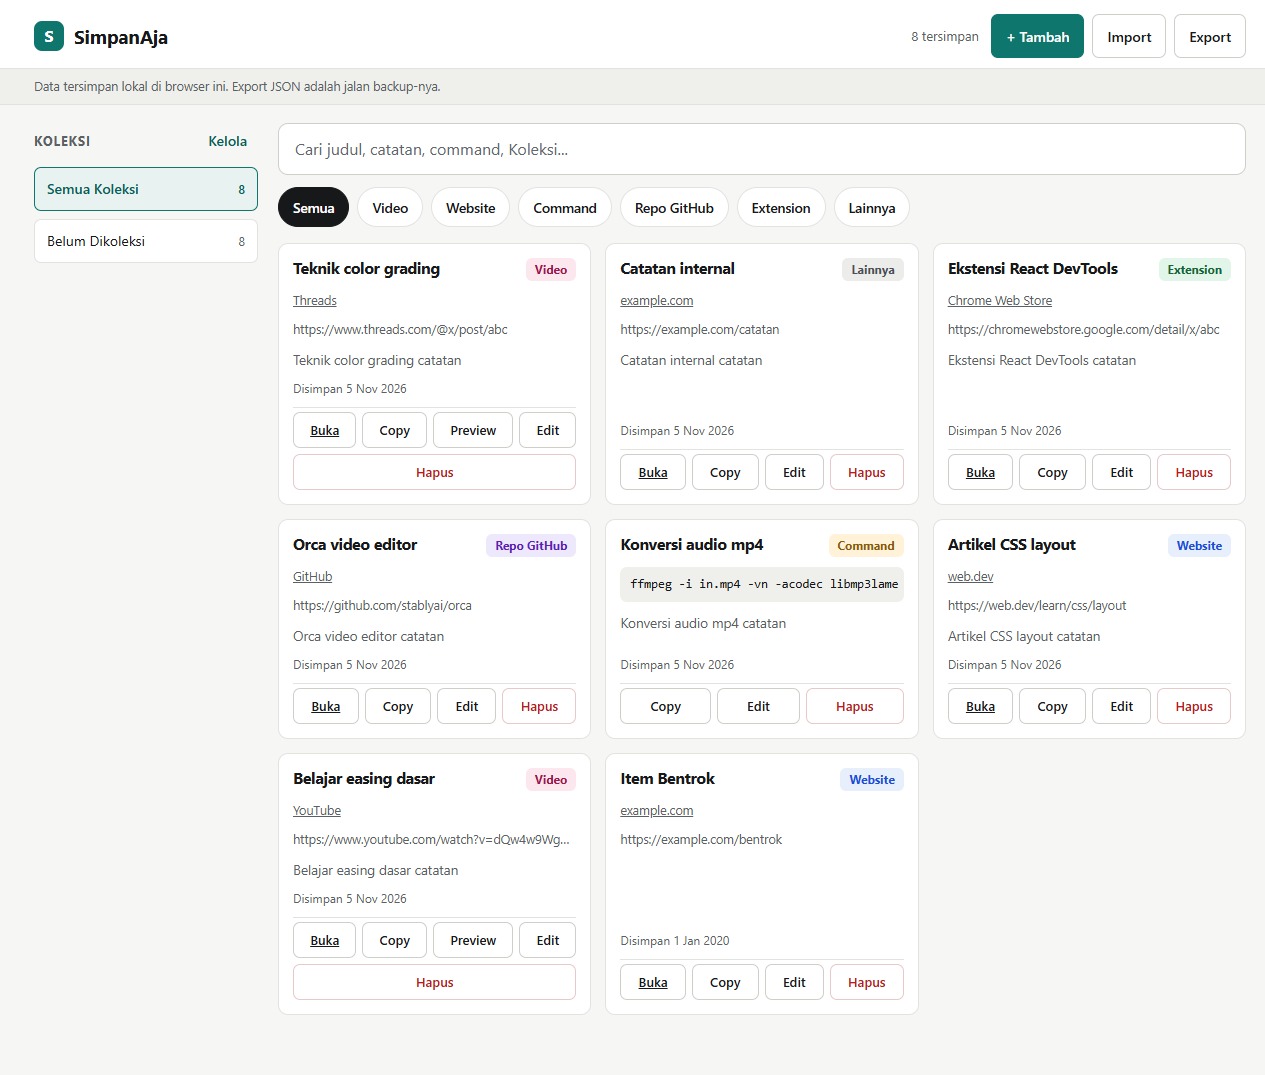
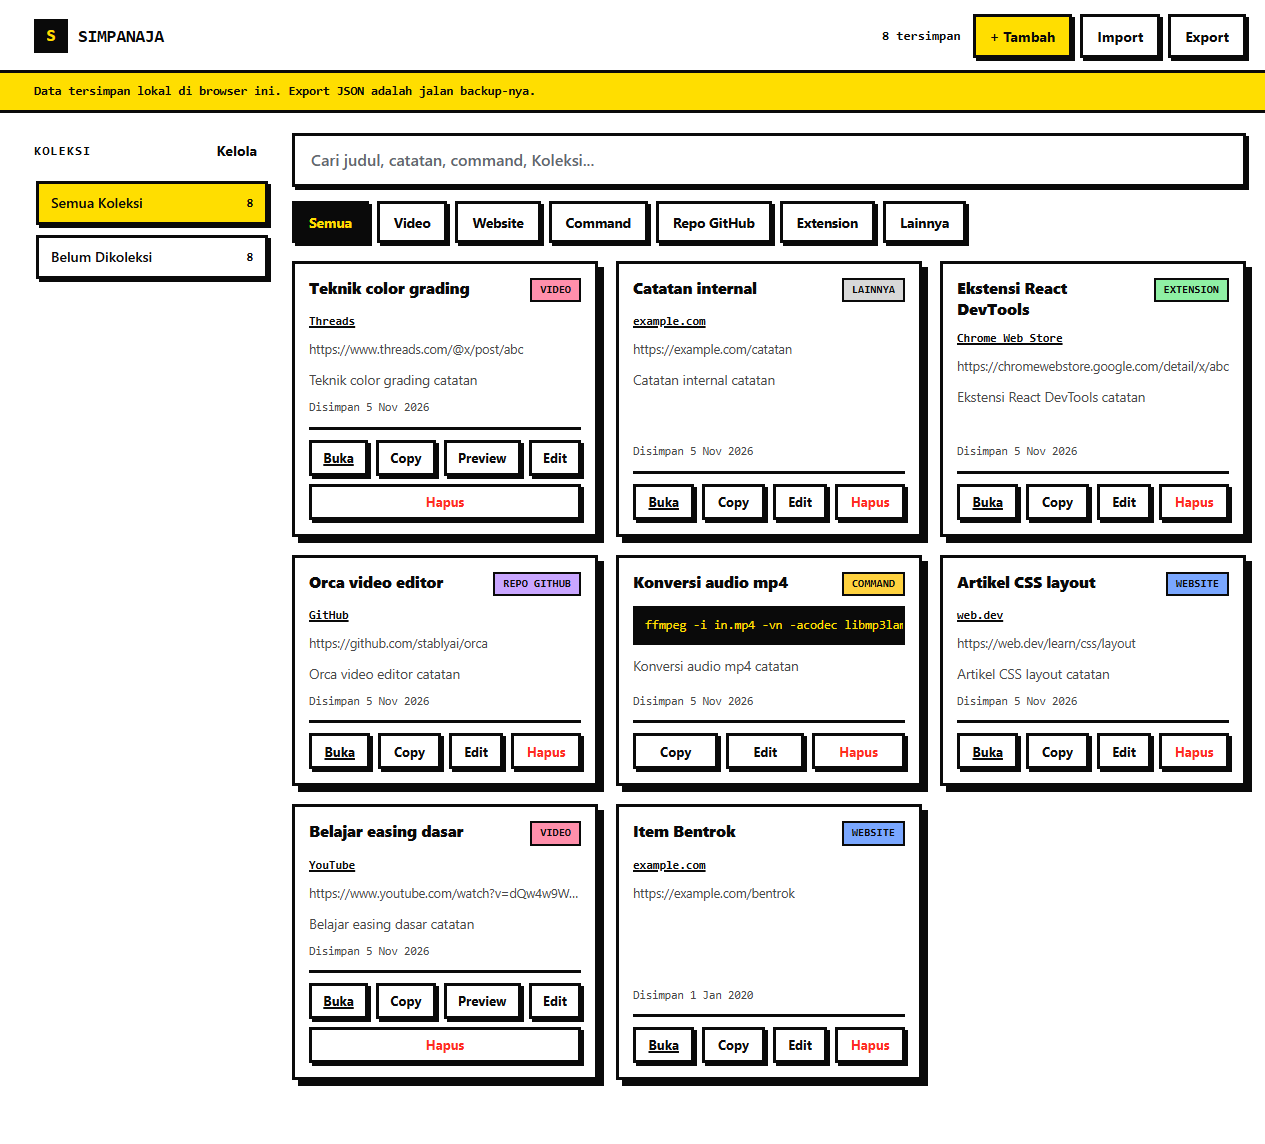
style: neubrutalism (hard borders, offset shadows, yellow accent)

Changed region(s): [[0.0, 0.0, 1.0, 0.9516]]

diff --git a/app/styles.css b/app/styles.css
@@ -1,30 +1,34 @@
-/* SimpanAja — "clean utility" for a personal Operate-mode tool.
-   Direction: dial ENERGY 1 / RHYTHM 1 / MOTION 1.
-   Identity motif: the 6 type badges are the only colour system, they are a real
-   taxonomy the user scans by, so colour earns its place there and nowhere else.
-   Typeface: system stacks only. Reason: spec forbids app network calls, so no
-   webfont may be fetched; native UI face keeps the tool fast and neutral. */
+/* SimpanAja — neubrutalism.
+   Direction: dial ENERGY 3 / RHYTHM 2 / MOTION 1. Hard borders, zero radius,
+   offset solid shadows, one loud yellow accent over ink black.
+   Identity motif: the 6 type badges stay the only colour system besides the
+   accent, they are a real taxonomy the user scans by.
+   Typeface: system stacks only — spec forbids app network calls, so no webfont.
+   Heading/utility face is the monospace stack; body stays sans for readability. */
 
 :root {
-  --bg: #f6f6f4;
+  --bg: #ffffff;
   --surface: #ffffff;
-  --surface-2: #efefec;
-  --ink: #17181a;
-  --muted: #5b5f66;
-  --line: #e2e2df;
-  --line-strong: #cfcfca;
-  --accent: #0f766e;
-  --accent-dark: #0b5d57;
-  --radius: 10px;
-  --radius-sm: 7px;
-  --shadow: 0 1px 2px rgba(20, 22, 24, .06), 0 6px 18px rgba(20, 22, 24, .06);
+  --surface-2: #f0f0f0;
+  --ink: #0a0a0a;
+  --muted: #4a4a4a;
+  --line: #0a0a0a;
+  --line-strong: #0a0a0a;
+  --accent: #ffde00;
+  --accent-dark: #0a0a0a;
+  --danger: #ff2d20;
+  --radius: 0px;
+  --radius-sm: 0px;
+  --bw: 3px;
+  --shadow: 6px 6px 0 var(--ink);
+  --shadow-sm: 3px 3px 0 var(--ink);
 
-  --t-video-bg: #fde7ef; --t-video-ink: #9d174d;
-  --t-website-bg: #e7eefc; --t-website-ink: #1d4ed8;
-  --t-command-bg: #fff2d9; --t-command-ink: #8a5a08;
-  --t-repo-bg: #ede8fb; --t-repo-ink: #5b21b6;
-  --t-extension-bg: #e2f5e9; --t-extension-ink: #166534;
-  --t-other-bg: #ececeb; --t-other-ink: #4b4f55;
+  --t-video-bg: #ff8fab; --t-video-ink: #0a0a0a;
+  --t-website-bg: #7aa7ff; --t-website-ink: #0a0a0a;
+  --t-command-bg: #ffd23f; --t-command-ink: #0a0a0a;
+  --t-repo-bg: #c9a6ff; --t-repo-ink: #0a0a0a;
+  --t-extension-bg: #8ff0a4; --t-extension-ink: #0a0a0a;
+  --t-other-bg: #d8d8d8; --t-other-ink: #0a0a0a;
 
   --sans: system-ui, -apple-system, "Segoe UI", Roboto, "Helvetica Neue", Arial, sans-serif;
   --mono: ui-monospace, SFMono-Regular, Menlo, Consolas, "Liberation Mono", monospace;
@@ -44,17 +48,15 @@ body {
   -webkit-text-size-adjust: 100%;
 }
 
-/* R-39: pointer affordance once, in the base layer */
 a[href], button, select, input[type="file"] { cursor: pointer; }
 button:disabled, select:disabled { cursor: not-allowed; }
 
-a { color: var(--accent-dark); }
+a { color: var(--ink); text-decoration: underline; text-decoration-thickness: 2px; }
 
-h1, h2, h3 { margin: 0; font-weight: 650; letter-spacing: -.01em; }
+h1, h2, h3 { margin: 0; font-family: var(--mono); font-weight: 800; letter-spacing: -.02em; text-transform: uppercase; }
 
-:focus-visible { outline: 2px solid var(--accent); outline-offset: 2px; border-radius: 4px; }
+:focus-visible { outline: var(--bw) solid var(--ink); outline-offset: 2px; border-radius: 0; }
 
-/* R-32: focus ring kept; R-03: touch targets >= 44px */
 .visually-hidden {
   position: absolute; width: 1px; height: 1px; padding: 0; margin: -1px;
   overflow: hidden; clip: rect(0 0 0 0); white-space: nowrap; border: 0;
@@ -64,24 +66,25 @@ h1, h2, h3 { margin: 0; font-weight: 650; letter-spacing: -.01em; }
 .topbar {
   display: flex; align-items: center; justify-content: space-between;
   gap: 12px; flex-wrap: wrap;
-  padding: 14px clamp(14px, 4vw, 34px) 10px;
+  padding: 14px clamp(14px, 4vw, 34px) 12px;
   background: var(--surface);
-  border-bottom: 1px solid var(--line);
+  border-bottom: var(--bw) solid var(--ink);
 }
 .brand { display: flex; align-items: center; gap: 10px; }
 .brand-mark {
-  width: 30px; height: 30px; display: grid; place-items: center;
-  background: var(--accent); color: #fff; border-radius: 8px;
-  font-weight: 700; font-size: 16px;
+  width: 34px; height: 34px; display: grid; place-items: center;
+  background: var(--ink); color: var(--accent); border: var(--bw) solid var(--ink);
+  font-family: var(--mono); font-weight: 800; font-size: 17px;
 }
-.topbar h1 { font-size: 19px; }
+.topbar h1 { font-size: 18px; }
 .topbar-actions { display: flex; align-items: center; gap: 8px; flex-wrap: wrap; }
-.total { color: var(--muted); font-size: 13px; margin-right: 4px; }
+.total { font-family: var(--mono); color: var(--ink); font-size: 13px; font-weight: 700; margin-right: 4px; }
 
 .local-note {
-  margin: 0; padding: 8px clamp(14px, 4vw, 34px);
-  background: var(--surface-2); color: var(--muted);
-  font-size: 12.5px; border-bottom: 1px solid var(--line);
+  margin: 0; padding: 9px clamp(14px, 4vw, 34px);
+  background: var(--accent); color: var(--ink);
+  font-family: var(--mono); font-size: 12.5px; font-weight: 600;
+  border-bottom: var(--bw) solid var(--ink);
 }
 
 /* ---------- buttons ---------- */
@@ -89,93 +92,97 @@ h1, h2, h3 { margin: 0; font-weight: 650; letter-spacing: -.01em; }
   min-height: 44px; padding: 0 14px;
   display: inline-flex; align-items: center; justify-content: center; gap: 6px;
   background: var(--surface); color: var(--ink);
-  border: 1px solid var(--line-strong); border-radius: var(--radius-sm);
-  font: inherit; font-size: 14px; font-weight: 550;
-  transition: background .12s, border-color .12s;
+  border: var(--bw) solid var(--ink); border-radius: 0;
+  box-shadow: var(--shadow-sm);
+  font: inherit; font-size: 14px; font-weight: 700;
+  transition: transform .08s, box-shadow .08s;
 }
 .btn:hover { background: var(--surface-2); }
-.btn:active { background: #e6e6e3; }
-.btn-primary { background: var(--accent); color: #fff; border-color: var(--accent); }
-.btn-primary:hover { background: var(--accent-dark); }
-.btn-quiet { border-color: transparent; background: transparent; min-height: 36px; padding: 0 10px; color: var(--accent-dark); }
+.btn:active { transform: translate(3px, 3px); box-shadow: 0 0 0 var(--ink); }
+.btn-primary { background: var(--accent); color: var(--ink); }
+.btn-primary:hover { background: #ffd000; }
+.btn-quiet { border-color: transparent; background: transparent; box-shadow: none; min-height: 36px; padding: 0 10px; }
 .btn-quiet:hover { background: var(--surface-2); }
-.btn-danger { color: #b91c1c; border-color: #e7c9c9; }
-.btn-danger:hover { background: #fbeaea; }
+.btn-danger { background: var(--surface); color: var(--danger); }
+.btn-danger:hover { background: var(--danger); color: #fff; }
 .btn-small { min-height: 36px; font-size: 13px; padding: 0 10px; }
 
 /* ---------- layout ---------- */
 .layout {
-  display: grid; gap: 20px;
-  padding: 18px clamp(14px, 4vw, 34px) 60px;
+  display: grid; gap: 22px;
+  padding: 20px clamp(14px, 4vw, 34px) 64px;
   align-items: start;
 }
 @media (min-width: 1024px) {
-  .layout { grid-template-columns: 224px 1fr; }
+  .layout { grid-template-columns: 236px 1fr; }
 }
 
-.sidebar {
-  min-width: 0;
-}
-.sidebar-head { display: flex; align-items: center; justify-content: space-between; margin-bottom: 8px; }
-.sidebar-head h2 { font-size: 13px; text-transform: uppercase; letter-spacing: .06em; color: var(--muted); }
+.sidebar { min-width: 0; }
+.sidebar-head { display: flex; align-items: center; justify-content: space-between; margin-bottom: 10px; gap: 8px; }
+.sidebar-head h2 { font-size: 13px; letter-spacing: .08em; color: var(--ink); }
 
-.collection-list { display: flex; gap: 8px; overflow-x: auto; padding-bottom: 4px; }
+.collection-list { display: flex; gap: 10px; overflow-x: auto; padding: 2px 2px 6px; }
 @media (min-width: 1024px) {
   .collection-list { flex-direction: column; overflow: visible; }
 }
 .collection-item {
   display: flex; align-items: center; justify-content: space-between; gap: 10px;
   min-height: 44px; padding: 0 12px; flex: 0 0 auto;
-  background: var(--surface); border: 1px solid var(--line);
-  border-radius: var(--radius-sm); color: var(--ink);
-  font: inherit; font-size: 14px; text-align: left; white-space: nowrap;
+  background: var(--surface); border: var(--bw) solid var(--ink); border-radius: 0;
+  box-shadow: var(--shadow-sm); color: var(--ink);
+  font: inherit; font-size: 14px; font-weight: 600; text-align: left; white-space: nowrap;
 }
 @media (min-width: 1024px) { .collection-item { width: 100%; white-space: normal; } }
-.collection-item:hover { border-color: var(--line-strong); }
-.collection-item[aria-current="true"] { border-color: var(--accent); background: #e8f3f1; color: var(--accent-dark); font-weight: 600; }
-.collection-item .count { color: var(--muted); font-size: 12px; }
-.collection-item[aria-current="true"] .count { color: var(--accent-dark); }
+.collection-item:hover { background: var(--surface-2); }
+.collection-item[aria-current="true"] { background: var(--accent); }
+.collection-item .count { font-family: var(--mono); color: var(--ink); font-size: 12px; font-weight: 700; }
 
 .content { min-width: 0; }
 
 /* ---------- search + chips ---------- */
-.search-wrap { margin-bottom: 12px; }
+.search-wrap { margin-bottom: 14px; }
 .search {
-  width: 100%; min-height: 52px; padding: 0 16px;
-  font: inherit; font-size: 16px;
+  width: 100%; min-height: 54px; padding: 0 16px;
+  font: inherit; font-size: 16px; font-weight: 600;
   background: var(--surface); color: var(--ink);
-  border: 1px solid var(--line-strong); border-radius: var(--radius);
+  border: var(--bw) solid var(--ink); border-radius: 0;
+  box-shadow: var(--shadow-sm);
 }
-.search::placeholder { color: #62676e; }
-.search:focus-visible { border-color: var(--accent); }
+.search::placeholder { color: #62676e; font-weight: 500; }
+.search:focus-visible { background: #fffce0; }
 
-.chips { display: flex; gap: 8px; flex-wrap: wrap; margin-bottom: 16px; }
+.chips { display: flex; gap: 8px; flex-wrap: wrap; margin-bottom: 18px; }
 .chip {
-  min-height: 40px; padding: 0 14px;
+  min-height: 42px; padding: 0 14px;
   display: inline-flex; align-items: center;
   background: var(--surface); color: var(--ink);
-  border: 1px solid var(--line); border-radius: 999px;
-  font: inherit; font-size: 13.5px; font-weight: 550;
+  border: var(--bw) solid var(--ink); border-radius: 0;
+  box-shadow: var(--shadow-sm);
+  font: inherit; font-size: 13.5px; font-weight: 700;
+  transition: transform .08s, box-shadow .08s;
 }
-.chip:hover { border-color: var(--line-strong); }
-.chip[aria-pressed="true"] { background: var(--ink); color: #fff; border-color: var(--ink); }
+.chip:hover { background: var(--surface-2); }
+.chip:active { transform: translate(3px, 3px); box-shadow: 0 0 0 var(--ink); }
+.chip[aria-pressed="true"] { background: var(--ink); color: var(--accent); }
 
 /* ---------- grid + card ---------- */
-.grid { display: grid; gap: 14px; grid-template-columns: 1fr; }
-@media (min-width: 640px) { .grid { grid-template-columns: repeat(auto-fill, minmax(280px, 1fr)); } }
+.grid { display: grid; gap: 18px; grid-template-columns: 1fr; }
+@media (min-width: 640px) { .grid { grid-template-columns: repeat(auto-fill, minmax(290px, 1fr)); } }
 
 .card {
   display: flex; flex-direction: column; gap: 10px;
   padding: 14px; min-width: 0;
-  background: var(--surface); border: 1px solid var(--line); border-radius: var(--radius);
+  background: var(--surface); border: var(--bw) solid var(--ink); border-radius: 0;
+  box-shadow: var(--shadow);
 }
-.card:hover { border-color: var(--line-strong); }
 .card-head { display: flex; align-items: flex-start; justify-content: space-between; gap: 10px; }
-.card-title { font-size: 15.5px; line-height: 1.35; overflow-wrap: anywhere; }
+.card-title { font-family: var(--sans); font-size: 16px; font-weight: 800; line-height: 1.3; letter-spacing: -.01em; text-transform: none; overflow-wrap: anywhere; }
 
 .badge {
-  flex: 0 0 auto; padding: 3px 9px; border-radius: 6px;
-  font-size: 11.5px; font-weight: 650; letter-spacing: .02em; white-space: nowrap;
+  flex: 0 0 auto; padding: 2px 8px;
+  border: 2px solid var(--ink); border-radius: 0;
+  font-family: var(--mono); font-size: 11px; font-weight: 800; letter-spacing: .01em;
+  text-transform: uppercase; white-space: nowrap;
 }
 .badge-video { background: var(--t-video-bg); color: var(--t-video-ink); }
 .badge-website { background: var(--t-website-bg); color: var(--t-website-ink); }
@@ -184,88 +191,90 @@ h1, h2, h3 { margin: 0; font-weight: 650; letter-spacing: -.01em; }
 .badge-extension { background: var(--t-extension-bg); color: var(--t-extension-ink); }
 .badge-other { background: var(--t-other-bg); color: var(--t-other-ink); }
 
-.card-source { color: var(--muted); font-size: 12.5px; }
+.card-source { color: var(--ink); font-family: var(--mono); font-size: 12px; font-weight: 600; }
 .card-collection {
   display: inline-flex; align-items: center; gap: 5px; align-self: flex-start;
-  padding: 2px 8px; border-radius: 6px; background: var(--surface-2);
-  color: var(--muted); font-size: 12px;
+  padding: 1px 8px; border: 2px solid var(--ink); background: var(--surface-2);
+  color: var(--ink); font-family: var(--mono); font-size: 11.5px; font-weight: 700;
 }
 .card-note { color: var(--muted); font-size: 13.5px; margin: 0; }
 .card-url {
   font-size: 12.5px; color: var(--muted); overflow: hidden; text-overflow: ellipsis; white-space: nowrap;
 }
 .card-command {
-  margin: 0; padding: 8px 10px; background: var(--surface-2); border-radius: var(--radius-sm);
-  font: 12.5px/1.5 var(--mono); color: var(--ink); overflow: hidden;
+  margin: 0; padding: 8px 10px; background: var(--ink); color: var(--accent);
+  border: 2px solid var(--ink);
+  font: 12.5px/1.5 var(--mono); overflow: hidden;
   display: -webkit-box; -webkit-line-clamp: 3; -webkit-box-orient: vertical;
 }
-.card-date { color: var(--muted); font-size: 12px; margin-top: auto; }
-.card-actions { display: flex; flex-wrap: wrap; gap: 6px; padding-top: 4px; border-top: 1px solid var(--line); }
+.card-date { color: var(--muted); font-family: var(--mono); font-size: 11.5px; margin-top: auto; }
+.card-actions { display: flex; flex-wrap: wrap; gap: 8px; padding-top: 10px; border-top: var(--bw) solid var(--ink); }
 .card-actions .btn { flex: 1 1 auto; }
 
 /* ---------- empty state ---------- */
 .empty {
-  margin-top: 8px; padding: 40px 20px; text-align: center;
-  background: var(--surface); border: 1px dashed var(--line-strong); border-radius: var(--radius);
+  margin-top: 8px; padding: 44px 20px; text-align: center;
+  background: var(--surface); border: var(--bw) dashed var(--ink); border-radius: 0;
 }
-.empty h2 { font-size: 17px; margin-bottom: 6px; }
-.empty p { color: var(--muted); margin: 0 0 16px; }
+.empty h2 { font-size: 18px; margin-bottom: 8px; }
+.empty p { color: var(--muted); margin: 0 0 18px; }
 
 /* ---------- dialogs ---------- */
 .dialog {
   width: min(560px, calc(100vw - 24px));
   max-height: calc(100vh - 40px); padding: 0;
-  border: 1px solid var(--line); border-radius: var(--radius);
+  border: var(--bw) solid var(--ink); border-radius: 0;
   background: var(--surface); color: var(--ink);
-  box-shadow: var(--shadow);
+  box-shadow: 10px 10px 0 var(--ink);
 }
-.dialog::backdrop { background: rgba(20, 22, 24, .42); }
+.dialog::backdrop { background: rgba(10, 10, 10, .55); }
 .form { display: flex; flex-direction: column; gap: 12px; padding: 18px; margin: 0; }
 .form h2 { font-size: 17px; }
 .field { display: flex; flex-direction: column; gap: 5px; }
 .field-inline { flex-direction: row; align-items: center; }
-.field label { font-size: 13px; font-weight: 600; color: var(--muted); }
+.field label { font-family: var(--mono); font-size: 12px; font-weight: 700; text-transform: uppercase; color: var(--ink); }
 .field input, .field select, .field textarea {
   width: 100%; min-height: 44px; padding: 9px 11px;
   font: inherit; font-size: 14.5px; color: var(--ink);
-  background: var(--surface); border: 1px solid var(--line-strong); border-radius: var(--radius-sm);
+  background: var(--surface); border: var(--bw) solid var(--ink); border-radius: 0;
 }
 .field textarea { min-height: 60px; resize: vertical; font-family: var(--mono); }
-.field input:focus-visible, .field select:focus-visible, .field textarea:focus-visible { border-color: var(--accent); }
-.form-error { margin: 0; color: #b91c1c; font-size: 13px; }
-.form-actions { display: flex; justify-content: flex-end; gap: 8px; margin-top: 4px; }
+.form-error { margin: 0; color: var(--danger); font-weight: 700; font-size: 13px; }
+.form-actions { display: flex; justify-content: flex-end; gap: 10px; margin-top: 4px; }
 
-.manage-list { display: flex; flex-direction: column; gap: 8px; max-height: 44vh; overflow-y: auto; }
+.manage-list { display: flex; flex-direction: column; gap: 10px; max-height: 44vh; overflow-y: auto; }
 .manage-row { display: flex; align-items: center; gap: 8px; }
 .manage-row input { flex: 1 1 auto; min-height: 40px; padding: 8px 10px; font: inherit; font-size: 14px;
-  background: var(--surface); border: 1px solid var(--line-strong); border-radius: var(--radius-sm); }
-.manage-row .count { color: var(--muted); font-size: 12px; min-width: 52px; text-align: right; }
+  background: var(--surface); border: var(--bw) solid var(--ink); border-radius: 0; }
+.manage-row .count { font-family: var(--mono); color: var(--ink); font-size: 12px; font-weight: 700; min-width: 56px; text-align: right; }
 .manage-empty { color: var(--muted); font-size: 13.5px; }
 
 /* ---------- preview popup ---------- */
 .preview-popup {
   position: fixed; z-index: 50;
-  width: min(380px, calc(100vw - 24px));
-  background: var(--surface); border: 1px solid var(--line);
-  border-radius: var(--radius); box-shadow: var(--shadow); overflow: hidden;
+  width: min(400px, calc(100vw - 24px));
+  background: var(--surface); border: var(--bw) solid var(--ink);
+  border-radius: 0; box-shadow: 8px 8px 0 var(--ink); overflow: hidden;
 }
 .preview-popup .preview-body { padding: 14px; display: flex; flex-direction: column; gap: 10px; }
 .preview-popup h3 { font-size: 15px; }
-.preview-frame { position: relative; width: 100%; aspect-ratio: 16 / 9; background: #000; }
+.preview-frame { position: relative; width: 100%; aspect-ratio: 16 / 9; background: #000; border-bottom: var(--bw) solid var(--ink); }
 .preview-frame iframe { position: absolute; inset: 0; width: 100%; height: 100%; border: 0; }
 .preview-frame video { position: absolute; inset: 0; width: 100%; height: 100%; background: #000; }
 .preview-close {
   position: absolute; top: 8px; right: 8px; z-index: 2;
   width: 34px; height: 34px; display: grid; place-items: center;
-  background: rgba(20, 22, 24, .6); color: #fff; border: 0; border-radius: 50%; font-size: 16px;
+  background: var(--ink); color: var(--accent); border: 2px solid var(--ink);
+  font-family: var(--mono); font-size: 18px; font-weight: 800;
 }
-.preview-popup.is-modal { top: 50%; left: 50%; transform: translate(-50%, -50%); width: min(420px, calc(100vw - 24px)); }
+.preview-popup.is-modal { top: 50%; left: 50%; transform: translate(-50%, -50%); width: min(440px, calc(100vw - 24px)); }
 
 .toast {
   position: fixed; left: 50%; bottom: 22px; transform: translateX(-50%);
   z-index: 60; padding: 11px 16px; max-width: calc(100vw - 28px);
-  background: var(--ink); color: #fff; border-radius: var(--radius-sm);
-  font-size: 14px; box-shadow: var(--shadow);
+  background: var(--ink); color: var(--accent); border: var(--bw) solid var(--ink);
+  border-radius: 0; box-shadow: 5px 5px 0 rgba(10, 10, 10, .35);
+  font-family: var(--mono); font-size: 13.5px; font-weight: 600;
 }
 
 @media (prefers-reduced-motion: reduce) {

diff --git a/EXECUTION-LOG.md b/EXECUTION-LOG.md
@@ -6,6 +6,12 @@ Rencana: `PLAN.md`. Spec: `SPECS.md`. Bukan repo git (sesuai spec), jadi tak ada
 
 - Mode antislop: **during** (pilihan sesi).
 - Arah visual: **clean utility** (pilihan sesi). Dial ENERGY 1 / RHYTHM 1 / MOTION 1.
+- **Ruling (revisi):** arah visual diganti ke **neubrutalism** atas permintaan sesi ini.
+  Hanya `app/styles.css` yang berubah: radius 0, border 3px hitam, hard offset shadow,
+  aksen kuning `#ffde00`, heading/utility monospace, latar putih. HTML/JS tak disentuh,
+  jadi perilaku & seluruh lencana tipe tetap. Detector impeccable: hanya advisory
+  `hard-offset-shadow` (memang disengaja pada neubrutalism); warning `cream-palette`
+  dihapus dengan mengganti latar krem → putih.
 - **Ruling:** lingkup diminta "UI dulu saja", tetapi `render/form/main` mengimpor
   `detect/search/embed` saat load. Tanpa modul itu halaman kosong dan UI tak bisa
   diverifikasi. Maka 3 modul murni tipis itu (`constants/detect/search/embed`) ikut
